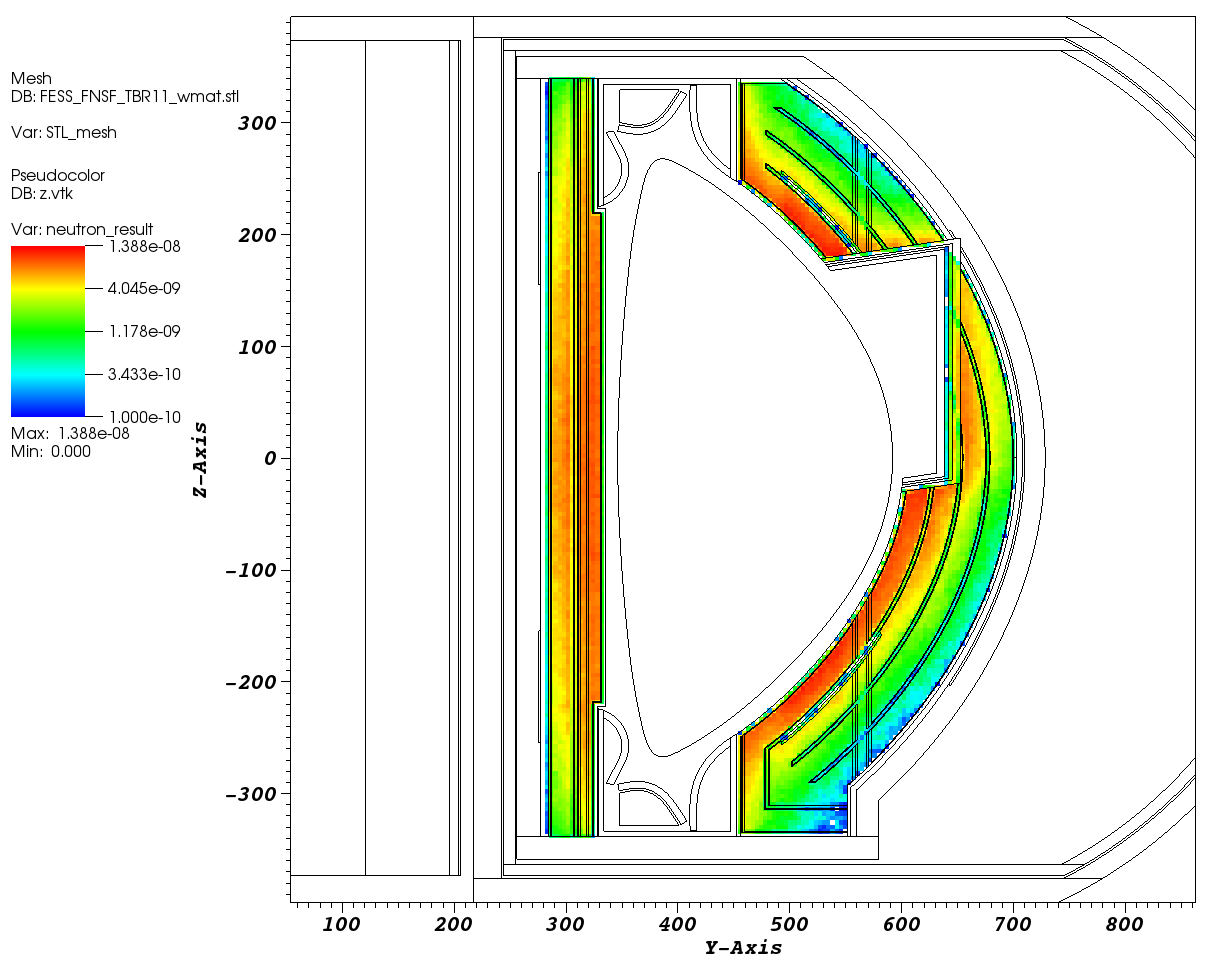
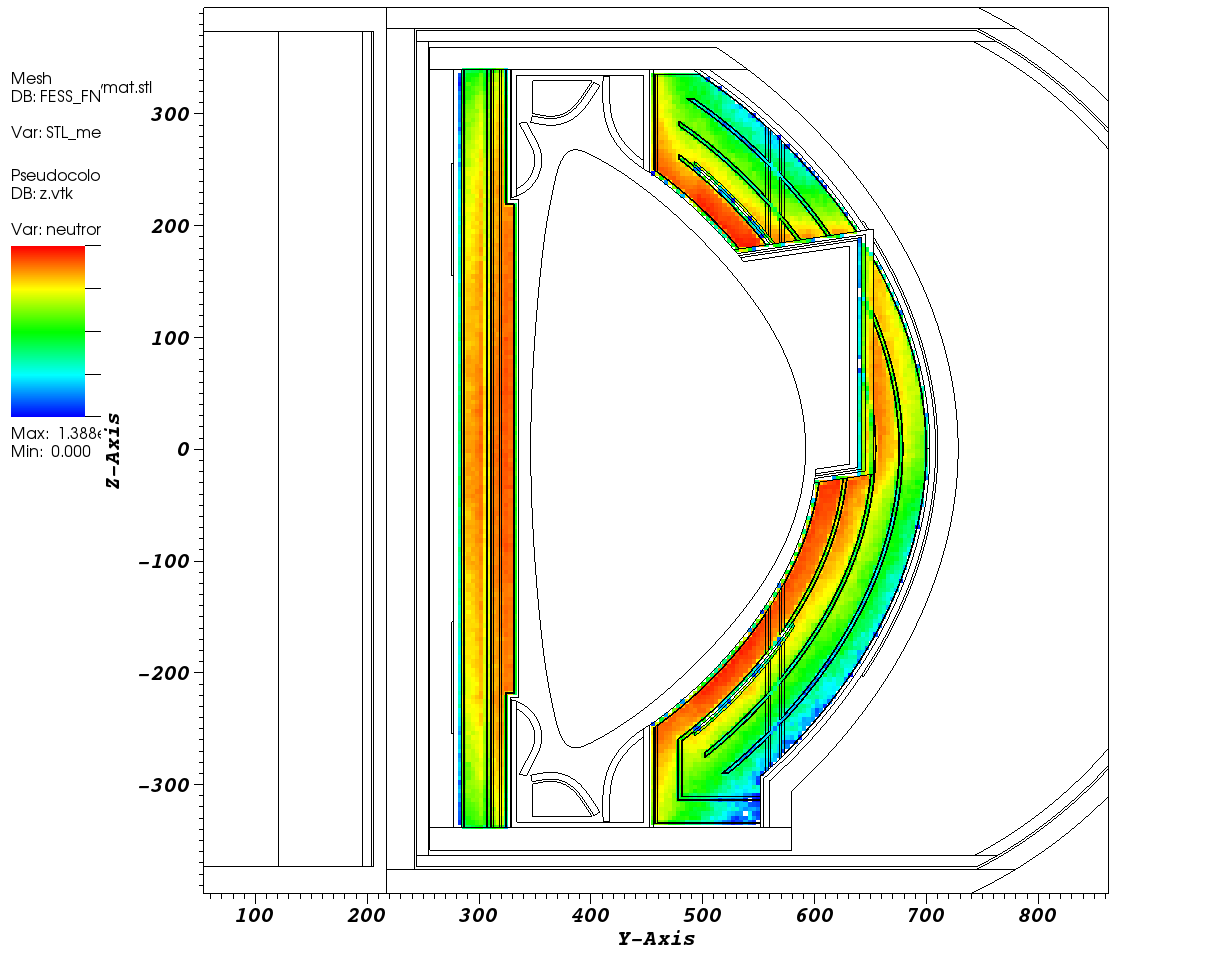
Added NBI figs and keywors

diff --git a/src/report.tex b/src/report.tex
@@ -20,7 +20,7 @@
 \ead[url]{http://cnerg.wisc.edu}
 \cortext[cor1]{Corresponding author}
 
-\address[wisc]{1500 Engineering Drive, Madison, WI 53706}
+\address[wisc]{The University of Wisconsin-Madison, Deparment of Engineering Physics, 1500 Engineering Drive, Madison, WI 53706}
  
 \begin{document}
  
@@ -29,7 +29,7 @@ Neutronics analysis was performed on the latest Fusion Energy System Studies - F
 
 \vspace{5mm}
 \noindent
-Keywords: FESS-FNSF, tritium breeding ratio, radiation damage, shutdown dose rate, DAGMC
+Keywords: FESS-FNSF, tritium breeding ratio, radiation damage, DAGMC
 \end{abstract}
 
 \begin{titlepage}
@@ -41,16 +41,12 @@ Keywords: FESS-FNSF, tritium breeding ratio, radiation damage, shutdown dose rat
 
 \newpage
 \section{Introduction} \label{Introduction}
-The Fusion Energy Systems Studies - Fusion Nuclear Science Facility (FESS-FNSF \cite{ref_1}) is considered an essential element of the US fusion road map that displays a strategic pathway from ITER to a US DEMO, and eventually to the first commercial power plant. A FNSF will help bridge the research gap between ITER - low radiation damage, short pulses, no tritium breeding - and DEMO which is designed to operate at power plant relevant fusion parameters. The FNSF will advance the understanding of fusion nuclear sciences (FNS) by providing an integrated platform for establishment of a database on all components. These components will be irradiated upto relevant parameters (e.g. 40-60 dpa, blanket temperatures 500-600\textsuperscript{o}C) via in-depth investigation of issues related to plasma boundary interface (materials interaction with high energy neutron flux, surface/volumetric heating, radiation damage, and gas production), operating in power plant relevant fusion core conditions (temperatures, coolant/breeder flow rates, pressures/stresses, B-field, and neutrons), tritium breeding/extraction/processing, advancing and demonstrating plasma technologies that support very long duration operations, etc.\vspace{5mm}
+The Fusion Energy Systems Studies - Fusion Nuclear Science Facility (FESS-FNSF \cite{ref_1}) is considered an essential element of the US fusion road map that displays a strategic pathway from ITER to a US DEMO, and eventually to the first commercial power plant. A FNSF will help bridge the research gap between ITER - low radiation damage, short pulses, no significant tritium breeding - and DEMO which is designed to operate at power plant relevant fusion parameters. The FNSF will advance the understanding of fusion nuclear sciences (FNS) by providing an integrated platform for establishment of a database on all components. These components will be irradiated up to relevant parameters (e.g. 40-60 dpa, blanket temperatures 500-600\textsuperscript{o}C) via in-depth investigation of issues related to plasma boundary interface (materials interaction with high energy neutron flux, surface/volumetric heating, radiation damage, and gas production), operating in power plant relevant fusion core conditions (temperatures, coolant/breeder flow rates, pressures/stresses, B-field, and neutrons), tritium breeding/extraction/processing, advancing and demonstrating plasma technologies that support very long duration operations, etc.\vspace{5mm}
 
-The FNSF subjected to this study is a tokamak-based facility with a \SI{518}{MW} fusion power, a plant Lifetime of $\sim$ \SI{24}{years} ($\sim$ \SI{8.5}{FPY}) and $\sim 35\%$ availability. The machine average neutron wall loading (NWL) at the first wall is \SI{1.1}{MW/m\textsuperscript{2}}. The radiation damage to the first wall was calculated followed by a shielding analysis. Shielding optimization \cite{ref_2} involved testing the effect of the inboard shielding materials on the radiation damage levels at the magnet with an inboard breeding blanket and the results showed that the radiation levels at the magnet are within acceptable limits. Such calculations involved estimating the fast neutron fluence, nuclear heating at the coil case, and atomic displacement to the Cu stabilizer.\vspace{5mm}
-
-A detailed tritium breeding study was also performed to assess the effect of various design elements on the tritium breeding ratio (TBR) of the dual-cooled lithium lead (DCLL) blanket which confirmed tritium self-sufficiency, a value of TBR $\sim$ 1 with 4\% margin. 
-
-In section (\ref{Analysis Tools}) the software tools used in this study will be described and in section (\ref{Neutron Wall Loading}) NWL results will be introduced. In section (\ref{Tritium Breeding Calculations}) focus will be on the tritium breeding calculations. Finally, in section (\ref{Radiation Damage}), the magnet shielding and radiation damage calculations will be discussed.
+The FNSF subjected to this study is a tokamak-based facility with a \SI{518}{MW} fusion power, a plant Lifetime of $\sim$ \SI{24}{years} ($\sim$ \SI{8.5}{FPY}) and $\sim 35\%$ availability. The machine average neutron wall loading (NWL) at the first wall is \SI{1.1}{MW/m\textsuperscript{2}}. The radiation damage to the first wall was calculated followed by a shielding analysis. Shielding optimization \cite{ref_2} involved testing the effect of the inboard shielding materials on the radiation damage levels at the magnet with an inboard breeding blanket and the results showed that the radiation levels at the magnet are within acceptable limits. Such calculations involved estimating the fast neutron fluence, nuclear heating at the coil case, and atomic displacement to the Cu stabilizer. A detailed tritium breeding study was also performed to assess the effect of various design elements on the tritium breeding ratio (TBR) of the dual-cooled lithium lead (DCLL) blanket which confirmed tritium self-sufficiency, a value of TBR $\sim$ 1 with 4\% margin. In section (\ref{Analysis Tools}) the software tools used in this study will be described and in section (\ref{Neutron Wall Loading}) NWL results will be introduced. In section (\ref{Tritium Breeding Calculations}) focus will be on the tritium breeding calculations. Finally, in section (\ref{Radiation Damage}), the magnet shielding and radiation damage calculations will be discussed.
 
 \subsection{Configuration} \label{Configuration}
-The first step in the analysis involved optimization of the Outboard (OB) \& Inboard (IB) radial builds and the divertor vertical build \cite{ref_2}. The result of such 1-D extensive optimization analysis is a complete definition of the material composition of the different regions taking into account the configuration of the facility, radiation limits especially at the magnet (and other long lifetime components), selection of low activation materials, environmental and safety constraints, and temperature limits for several in-vessel components. Some design parameters were pre-set based on decisions made during previous studies such as ARIES-ACT2 \cite{ref_14}. Such parameters included the sizes of the He-cooled \SI{20}{cm} thick Structural Ring (SR) and \SI{10}{cm} thick Vacuum Vessel (VV) (both of these structures are composed to 2 face sheets with internal ribs and filler materials). As will be discussed in section (\ref{Radiation Damage}) the most important parameters in the analysis were the fast neutron fluence and nuclear heating at the toroidal field magnet. The OB radial build and the corresponding material composition of each layer is shown in figure \ref{fig:radial build} and the detailed composition of the OB is;
+The first step in the analysis involved optimization of the Outboard (OB) \& Inboard (IB) radial builds and the divertor vertical build \cite{ref_2}. The result of such 1-D extensive optimization analysis is a complete definition of the material composition of the different regions taking into account the configuration of the facility, radiation limits especially at the magnet (and other long lifetime components), selection of low activation materials, environmental and safety constraints, and temperature limits for several in-vessel components. Some design parameters were pre-set based on decisions made during previous studies such as ARIES-ACT2 \cite{ref_3}. Such parameters included the sizes of the He-cooled \SI{20}{cm} thick Structural Ring (SR) and \SI{10}{cm} thick Vacuum Vessel (VV) (both of these structures are composed to 2 face sheets with internal ribs and filler materials). As will be discussed in section (\ref{Radiation Damage}) the most important parameters in the analysis were the fast neutron fluence and nuclear heating at the toroidal field magnet. The OB radial build and the corresponding material composition of each layer is shown in figure \ref{fig:radial build} and the detailed composition of the OB is;
 \begin{figure}[h!]
   \centering
   \includegraphics[scale=0.2]{../plots/OB_comp.png}
@@ -62,12 +58,53 @@ The first step in the analysis involved optimization of the Outboard (OB) \& Inb
   \caption{OB "top left", IB "bottom left", and Divertor "right" radial builds}
   \label{fig:radial build}
 \end{figure}
+\subsection{1-D Optimisation}
+\label{Optimisation}
+\subsubsection{Heat load to Coils}
+All components should, to some degree, provide shielding function to help the device satisfy the radiation limits. In the case of the FNSF, a common filler material can be used in the Structual Ring (SR), the Vaccum Vessel (VV) and the Low Temperature (LT) shield. Several candidate filler materials have been identified: MF82H (Modified Ferritic Steel), B-FS (Borated Ferritic Steel), and WC (Tungsten Carbide). Comparison was made based on the basis of several key magnet system requirements:
+\begin{itemize}
+  \item{Peak nuclear heating at the winding pack ($<$ 1 mW/cm$^3$)}
+  \item{Peak nuclear heating at the coil case ($<$ 2 mW/cm$^3$)}
+  \item{Peak dpa to Cu stabilizer ($<$ 10$^{-4}$ dpa)}
+  \item{Peak dose to electric insulator ($<$ 5$\times$10$^{10}$ rads)}
+  \item{Peak fast neutron fluence to ternary Nb$_3$Sn super conductor ($<$ 3$\times$10$^{18}$ n/cm$^2$).}
+\end{itemize}
+Nuclear heat deposition in Superconducting (SC) magnets is particularly problematic due to the increased probability of a quench. The cooling system is designed to remove this, however, increased cooling requirements impact the economics and superconductor design as a result of temperature change, thus heat to magnets must be minimised. The results of the optimisation calculations are shown in Table \ref{tab:1dcalc}
+\begin{table}[ht!]
+ \begin{tabular}{| l | c | c | c |} 
+ \hline 
+ Material & MF82H & B-FS & WC \\
+ \hline
+ Peak Nuclear Heating at WP (mW) & 1000 & 210 & 0.3 \\
+ Dose to electrical insulator (rads) & 2.5$\times$10$^5$ & 1.0$\times$10$^5$ & 190 \\
+ Peak DPA to Cu stabilizer & 1.5$\times$10$^{-3}$ & 9.5$\times$10$^{-4}$ & 1.5$\times$10$^{-6}$ \\
+ Peak nuclear heating at CC (mW) & 900 & 200 & 1.6 \\
+ Peak fast neutron fluence to Nb$_3$Sn (n/cm$^2$s) & 4.2$\times$10$^{19}$ & 2.4$\times$10$^{19}$ & 2.0$\times$10$^{18}$ \\ 
+ \hline
+ \end{tabular}
+ \caption{Nuclear parameters of the SC magnets as a function of filler material at 8.5 FPY}
+ \label{tab:1dcalc}
+\end{table}
 
-\subsection{Full 3D Build} \label{Full 3D Build}
-The shielding and blanket optimization described in subsection (\ref{Configuration}) resulted in a full definition of the major materials and dimensions that were used to produce the 3D assembly CAD model. Shown in Figure \ref{fig:Full3D} is a cross section of one sector with the major regions identified on the figure. The model consists of 16 IB and OB sectors with \SI{2}{cm} assembly gaps which was used in all analyses performed in this study, at full power, these gaps will closer to some degree, however future designs will include some labyrinth to mitigate these effects. The facility has a major radius of \SI{4.8}{m} and a minor radius of \SI{1.2}{m}. It's worth mentioning that the CAD used in the analysis included all in-vessel components up to the IB magnet and out-of-vessel components up to the LT shield. 
+The magnet damage reaches its minimum when WC is used as filler in SR, VV, and LT shield. WC has the ability to reduce the magnet heating, insulator dose, DPA to Cu stabilizer, and fluence by almost 90-95\% compared to other fillers, furthermore, WC has high attenuation and is endowed with several superior mechanical and thermal properties.
+
+\subsubsection{Radiation Damage to LT Shield}
+The FW and Blanket are sacrificial components that are planned to be replaced every few years due to radiation damage considerations. The LT shield helps to protect external components. Being the closest component to the SC magnets, the composition of LT shield helps to influence the radiation damage at the magnet. The LT shield is composed of H$_2$O-WC mixture. Optimisation of the composition of the LT Shield will help the design meet the FNSF radiation limits.
+
 \begin{figure}[h!]
   \centering
-  \includegraphics[scale=0.35]{../plots/full_3d.png}
+  \includegraphics[scale=0.5]{../plots/fast_fluence_lt.png}
+  \caption{Sensitivity of peak radiation effects at magnet to LT shield material composition}
+  \label{fig:fast_fluence}
+\end{figure}
+
+It was found that that the fast neutron fluence is minimised when the LT shield composition is 50\% WC and 45\% H$_2$O, an example of the optimisation results are shown in Figure \ref{fig:fast_fluence} . The nuclear heating at the coil case and winding pack minimises at higher WC content than 50\%, thus the selection of 50\% WC is slightly inoptimal. The dose to electric insulator and dpa to Cu stabilizer are found to be well below their respective limits at a composition of 50\% WC and 45\% H2O. Therefore, the shield composition should have water comprising 45\% of volume and WC is 50\%, with the remaining 5\% left as FS-3Cr steel structural material. 
+
+\subsection{Full 3D Build} \label{Full 3D Build}
+The shielding and blanket optimization described in subsection (\ref{Configuration} \& \ref{Optimisation}) resulted in a full definition of the major materials and dimensions that were used to produce the 3D assembly CAD model. Shown in Figure \ref{fig:Full3D} is a cross section of one sector with the major regions identified on the figure. The model consists of 16 IB and OB sectors with \SI{2}{cm} assembly gaps which was used in all analyses performed in this study, at full power, these gaps will close to some degree, however future designs will include some labyrinth to mitigate these effects. The facility has a major radius of \SI{4.8}{m} and a minor radius of \SI{1.2}{m}. It's worth mentioning that the CAD used in the analysis included all in-vessel components up to the IB magnet and out-of-vessel components up to the LT shield. 
+\begin{figure}[h!]
+  \centering
+  \includegraphics[scale=0.35,clip]{../plots/full_3d.png}
   \caption{The full 3D CAD model of a single FESS-FNSF sector}
   \label{fig:Full3D}
 \end{figure}
@@ -80,7 +117,7 @@ In this study the approximations were limited and only applied to design details
 State-of-the-art analysis tools were utilized in this study which enabled working with the full 3-D model with all the internal details defined in the CAD, such as blanket internals and side/back/front walls, which are known to play a key role in TBR degradation. This work was performed with DAG-MCNP5, a version of MCNP5 \cite{ref_4} that has been enhanced by the DAGMC \cite{ref_5} toolkit. Coupled with MCNP5, DAGMC provides remarkable capabilities for the analysis of complex fusion facilities by utilizing acceleration techniques to achieve efficient ray tracing directly on CAD solid models without the need to translate the geometry/model to the native input representation of the transport code. Other software tools were used for mesh representation of the geometry and application of transport variance reduction techniques for deep penetration in regions behind the shields (PyNE \cite{ref_6} toolkit). The fusion evaluated nuclear data library (FENDL2.1)\cite{ref_7} was used in this analysis. Utilization of such sophisticated tools allowed reducing the approximations involved in the analysis by incorporating fine details which previously represented a challenge.\vspace{5mm}
 
 \subsection{Neutron Source Modeling} \label{Neutron Source Modelling}
-An MCNP sampling routine was written to sample the neutrons for the transport calculations compared to the previous workflow which utilized either a simplified 3-region or R-Z sources. It has been shown by mapping the neutron source using different source definitions that the method by which neutrons are sampled from the source will have an impact on the analysis results such as NWL and hence TBR and radiation damage values. such difference is directly related to the source configuration which affects, for example, the peaking values at the mid-plane. Advances in modelling allowed a transition from a 3-region (concentric three tori with different neutron yield) to sampling based on produced R-Z source density distribution to sampling the source as a function of the actual parameters defining the plasma without the need to introduce any approximations. The new routine also allows spatially dependent sampling of the energy of the neutrons over a Gaussian/Muir defined by the ion temperature.  
+An MCNP sampling routine was written to sample the neutrons for the transport calculations compared to the previous workflow which utilized either a simplified 3-region or R-Z sources. It has been shown by mapping the neutron source using different source definitions that the method by which neutrons are sampled from the source will have an impact on the analysis results such as NWL and hence TBR and radiation damage values. such difference is directly related to the source configuration which affects, for example, the peaking values at the mid-plane. Advances in modelling allowed a transition from a 3-region (concentric three tori with different neutron yield) to sampling based on produced R-Z source density distribution to sampling the source as a function of the actual parameters defining the plasma, shown in Figure \ref{fig:Analytic_source}, without the need to introduce any approximations. The new routine also allows spatially dependent sampling of the energy of the neutrons over a Gaussian/Muir defined by the ion temperature.  
 
 The physical parameters defining the plasma source \cite{ref_11} are: fusion power = \SI{518}{MW}, major radius = \SI{4.8}{m}, minor radius = \SI{1.2}{m}, elongation = 2.2, triangularity = 0.625, Shafranov shift = \SI{0.144}{m}, ion density in the pedestal, seperatrix, and core regions = 1x10\textsuperscript{20}/m\textsuperscript{3}, 0.56x10\textsuperscript{20}/m\textsuperscript{3}, and 1.6x10\textsuperscript{20}/m\textsuperscript{3} respectively with a peaking factor of 1.52 (peak to volume average), ion temperature in the pedestal, seperatrix, and core regions  = \SI{4}{keV}, \SI{100}{eV}, and \SI{22}{keV} respectively with a peaking factor of 2.25 (peak to volume average), and pedistal radius = \SI{1.14}{m}.
 \begin{figure}[h!]
@@ -142,7 +179,7 @@ The next step in the analysis was applied to the full 3-D model which involved c
 \section{Tritium Breeding Calculations} \label{Tritium Breeding Calculations}
 The rich fusion research literature shows a growing interest to achieve ignition via the deuterium - tritium (D-T) fuel cycle and due to the scarcity of T in nature and the high cost of T consumed by fusion power plants (55.6 kg/full power year (FPY)/GW\textsubscript{fus}) \cite{ref_3}, all power plants developed to date that employ the D-T fuel cycle are required to breed T in blankets surrounding the plasma. As a result the need for TBR (ratio of tritium bred in the blankets to that consumed in the plasma) calculations with high certainty grew substantially and the TBR is considered an essential metric in the design phase.\vspace{5mm}
 
-The blanket of choice for the FESS-FNSF project is the dual cooled lead-lithium (DCLL) \cite{ref_12} blanket. The blanket consists of $\sim$ \SI{20}{cm} radial/toroidal flow channels of LiPb eutectic (15.7 at\% Li (90\% Li6 enrichment) and 84.3 at\% Pb) surrounded by \SI{0.5}{cm} SiC FCI (flow channel insert) and \SI{0.2}{cm} layer of LiPb. The blanket structure is cooled by helium at high pressure (\SI{8}{MPa}) which is also used for heat removal in other components such as FW and blanket side/back/front walls. The blanket also serves other purposes besides breeding T such as the removal of volumetric heat deposited by fast neutrons from the plasma and shielding the outer components such as the structural ring (SR), the vacuum vessel (VV), and the magnets.
+The blanket of choice for the FESS-FNSF project is the dual cooled lead-lithium (DCLL) \cite{ref_12} blanket. The blanket consists of $\sim$ \SI{20}{cm} radial/toroidal flow channels of LiPb eutectic (15.7 at\% Li (90\% Li$^6$ enrichment) and 84.3 at\% Pb) surrounded by \SI{0.5}{cm} SiC FCI (flow channel insert) and \SI{0.2}{cm} layer of LiPb. The blanket structure is cooled by helium at high pressure (\SI{8}{MPa}) which is also used for heat removal in other components such as FW and blanket side/back/front walls. The blanket also serves other purposes besides breeding T such as the removal of volumetric heat deposited by fast neutrons from the plasma and shielding the outer components such as the structural ring (SR), the vacuum vessel (VV), and the magnets.
 
 \subsection{TBR Workflow} \label{TBR Workflow}
 A workflow for the calculation of the TBR of the facility was developed which involved assessing the impact of individual design elements/details on the breeding capacity. The workflow consists of a multi-step approach to calculate the TBR by starting the analysis with a CAD model with a simplified breeding blanket and at each step a new detail is added such as the He flow channels, the side walls, etc. and the resulting TBR of the facility is calculated at each step. The TBR results are shown in figure \ref{fig:TBR chart}. \vspace{5mm}
@@ -181,15 +218,15 @@ One of the concepts implemented in the current design – based on experience wi
 Using DAG-MCNP5 mesh tally capabilities the T production was mapped in the IB and OB blankets of one sector as shown in figure \ref{fig:step7} for step 7 and figure \ref{fig:NBI} for the NBI. Figure \ref{fig:step7} also shows a reduction in TBR behind the stabilizing shells due to the absorption of neutrons by W. Including any penetrations in the mid-plane will have an effect on the overall TBR by reducing the active volume of the blanket where it's most effective for T breeding, even though there may be slightly enhanced local T breeding far inside the blanket due to streaming of neutrons.
 \begin{figure}[h!]
 \centering
-\begin{subfigure}{0.4\textwidth}
+\begin{subfigure}{0.49\textwidth}
   \centering
-  \includegraphics[width = \textwidth]{../plots/step7.png}
+  \includegraphics[width = \textwidth]{../plots/step7_clip.png}
   \caption{Sector without any ports}
   \label{fig:step7}
 \end{subfigure}
-\begin{subfigure}{0.4\textwidth}
+\begin{subfigure}{0.49\textwidth}
   \centering
-  \includegraphics[width = \textwidth]{../plots/NBI.png}
+  \includegraphics[width = \textwidth]{../plots/NBI_clip.png}
   \caption{Sector with NBI}
   \label{fig:NBI}
 \end{subfigure}
@@ -324,14 +361,14 @@ The analysis contained within this paper demonstrates some of the key nuclear pa
 the exception of the TBMs since they are a source of tritium. Furthermore, for the nominal baseline design it was determined that the FNSF can be self sufficient in terms of tritium production if the lithium is enriched to 80 at\%. Peak DPA rates were found to be 15 DPA/FPY, helium production was found to peak at 155 appm  and hydrogen production was found to be 692 appm, all peaking at the OB FW. The damage and heating to the winding pack of the IB magnets were all found to be below the limits specified. There are a number of differences between this FNSF and a full power reactor; the neutron wall loading is projected to be higher in full power plant by a factor of $\sim$ 2 resulting in higher neutron fluxes at the FW, the damage \& gas production rates will similarly be proportionally higher, however these parameters scale linearly with the fusion power. There are also a number of similarities with future plants; the helium production rate /dpa rate ratio will be similar, and neutron transmutation rates will also be similar. 
 \\
 \\
-The fusion community has benefited from the wealth of fission based nuclear data that exists, however certainly for transmutation cross sections there can be significant uncertainty in the neutron cross section data, thus a suite of experiments should be planned that determine the key cross sections to an accuracy as required by analyses. The best suite of neutron induced reaction data are currently the TENDL \cite{ref_15} data, effort should be made to ensure the neutron transmutation codes used can support this data. Currently, the best estimates of the uncertainty \cite{ref_16} in the $^6$Li \& $^7$Li (n,t) pathways if often very close to the excess tritium produced in the design, effort should therefore be undertaken to determine these cross sections to a much lower uncertainty. 
+The fusion community has benefited from the wealth of fission based nuclear data that exists, however certainly for transmutation cross sections there can be significant uncertainty in the neutron cross section data, thus a suite of experiments should be planned that determine the key cross sections to an accuracy as required by analyses. The best suite of neutron induced reaction data are currently the TENDL \cite{ref_15} data, effort should be made to ensure the neutron transmutation codes used can support this data. Currently, the best estimates of the uncertainty \cite{ref_16} in the $^6$Li \& $^7$Li (n,t) pathways are often very close to the excess tritium produced in the design, effort should therefore be undertaken to determine these cross sections to a much lower uncertainty. 
 \\
 \\
 Future work should also focus on the development of a coupled analysis amongst all physical modelling that has feedback to the neutronics calculation. Such a coupling would allow the proper coupling of neutronics, thermo-mechanical, magnetic, and other detailed physics to properly account for material and geometric changes that impact the modeling of fusion systems. A prescient example would be the determination of all heat loads onto a component, how the resultant heat source impacts the thermo-mechanical behaviour of the system, and then determining the impact of those structural changes to the neutronics of the system.
 
 \newpage
 \section{References}
-\begin{thebibliography}{16} 
+\begin{thebibliography}{13} 
 \bibitem{ref_1} 
 C. E. KESSEL, et al., {“The Fusion Nuclear Science Facility, the Critical Step in the Pathway to Fusion Energy,” Fusion Science and Technology, vol. 68, p. 225–236 (2015).}
 \bibitem{ref_2} 
@@ -348,12 +385,6 @@ X-5 Monte Carlo Team, {MCNP a General Monte Carlo N-Particle Transport Code Vers
 {PyNE: http://pyne.io/} 
 \bibitem{ref_7}
 D. L. ALDAMA and et al., {“FENDL2.1, Update of an Evaluated Nuclear Data Library for Fusion applications.” IAEA report INDC (NDS) 467, Vienna, Austria (2004).}
-\bibitem{ref_8}
-Y. Chen and U. Fischer, {"Rigorous MCNP based shutdown dose rate calculations: computational scheme, verification calculations and application to ITER." Fusion Engineering and Design, 63-64, 107–114 (2002).}
-\bibitem{ref_9}
-{pyne.r2s: http://pyne.io/pyapi/r2s.html}
-\bibitem{ref_10}
-{https://github.com/svalinn/ALARA}
 \bibitem{ref_11}
 Clement Fausser, et al., {“Tokamak D-T Neutron Source Models for Different Plasma Physics Confinement Modes.” Fusion Engineering and Design, vol. 87, p. 787–792 (2012).}
 \bibitem{ref_12}
